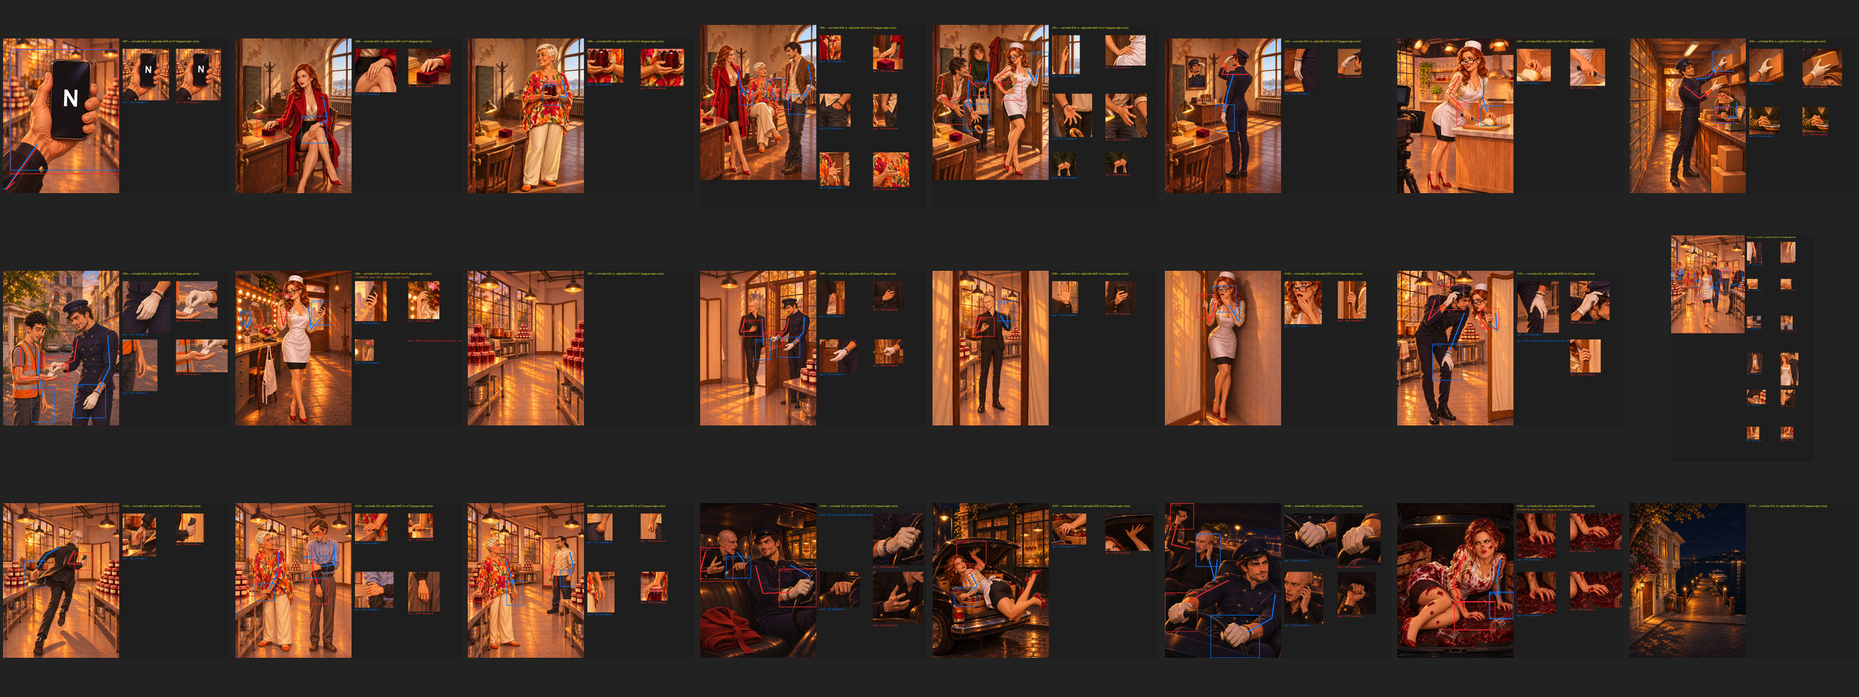
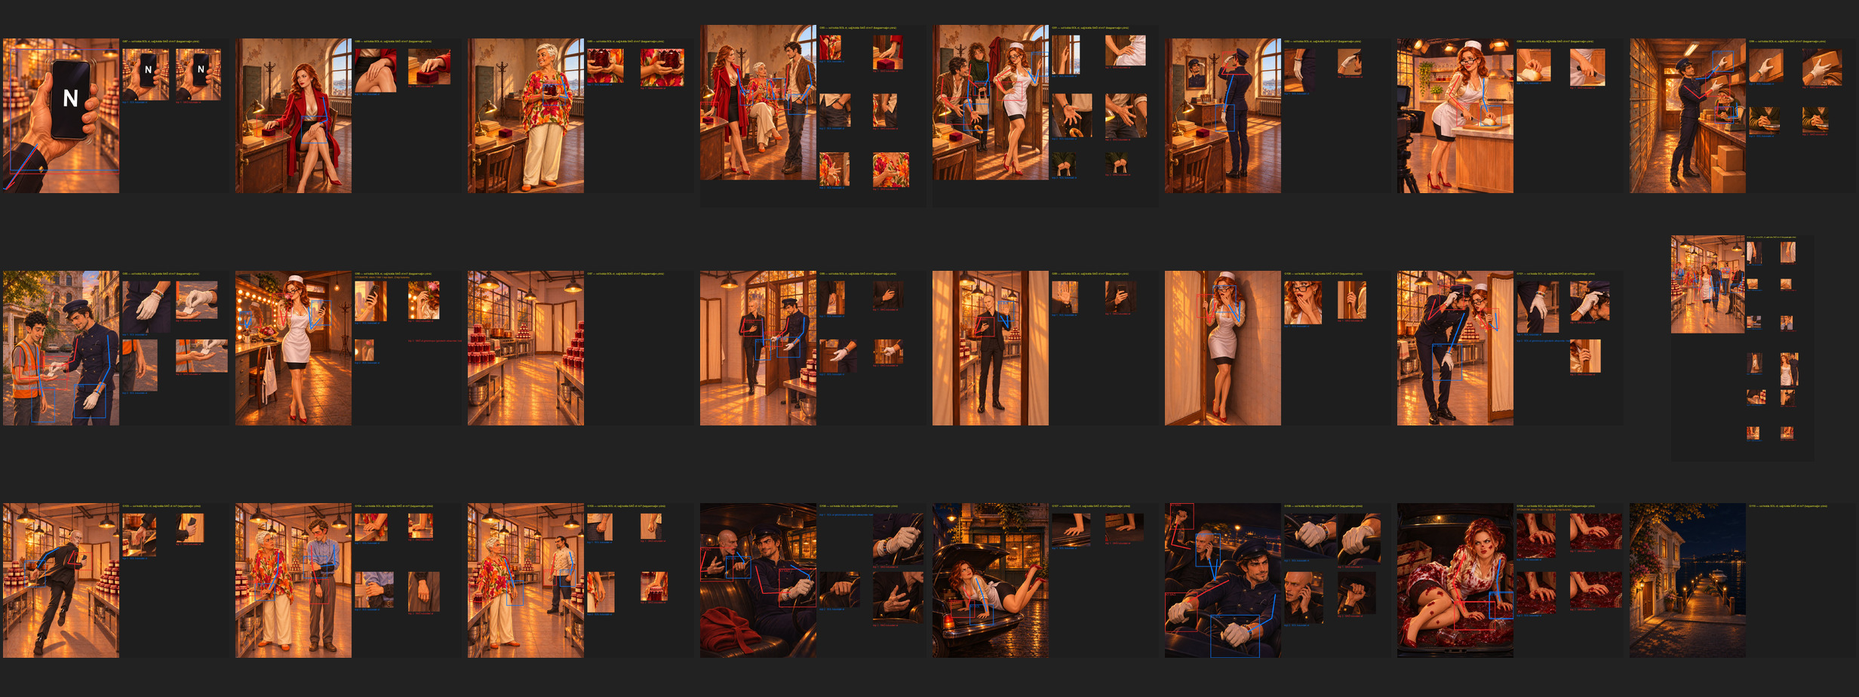
Vaka 8: G107 (bagaj boş, kasa az) ve G125 (polis aracı orta planda, amblemsiz) yeniden — Oğuz Bey; G115 istem kodlaması düzeldi

Changed region(s): [[0.5, 0.697, 0.625, 0.9697]]

diff --git a/uretim/v8/kayit/kol2.md b/uretim/v8/kayit/kol2.md
@@ -122,3 +122,4 @@
 | G128 | image_gen.imagegen / bildirilmedi | Üstlerindeki reçel lekeleri açıkça REÇEL: birkaç küçük, parlak, kiraz kırmızısı TOPAK ve bütün VİŞNE TANESİ; akan, damlayan, sıçramış koyu kırmızı YOK; YÜZLERDE ve KAFALARDA hiç reçel YOK (kan ya da yara izlenimi olmasın).<br><br>Yarı gerçekçi dijital illüstrasyon, boyalı görsel roman karakter çizimi. Gerçek insan oranları, ama fotoğraf değil: belirgin, temiz kontur çizgileri, yumuşak boyalı gölgeler, sıcak ve canlı renkler. Animasyon filmi afişi ile modern çizgi roman arası bir tarz. Anime değil, çocuk çizgi filmi değil, fotoğraf değil.<br><br>Kart referansları YALNIZ kıyafetin kesimi, boyu ve rengi içindir; kartların çizim tarzını, ışığını, yüzünü ve pozunu ALMA. Bütün kişiler sıcak ışıklı, boyalı, ince konturlu aynı illüstrasyon tarzında.<br><br>Sahne: birinci referanstaki yalının önü ve iskele, gece; yalının yanından yukarı çıkan dar, taş bir yokuş. Kadrajda TAM 2 kişi: Tarkan ve Nihat. SONUÇ anı.<br><br>İkinci referans bir şerittir (soldan Nihat, Tarkan). Tarkan (ince, KEL ve parlak kafalı, dar uzun solgun yüzlü, SARI kaşlı, kaşında ince iz olan genç adam; siyah takım, siyah gömlek, altın kol düğmeleri; reçel lekeli): yokuşa doğru koşuyor, uzaklaşıyor, sırtı bize dönük ama başı hafif yana, yüzü üç çeyrek görünüyor. Nihat (ince, uzun boylu, DÜZ GERİYE yatırılmış GÜMÜŞ saçlı, bronz tenli, kemerli burunlu, ellilerinde adam; beyaz keten takım, açık yakalı beyaz gömlek, güneş gözlüğü saçının üstünde): iskelede, ağın içinde tek başına oturuyor, Tarkan'ın arkasından öfkeyle bakıyor.<br><br>Işık: GERÇEKTEN gece; sahnenin çoğu karanlıkta, ışık yalnız lambalardan ve fenerlerden gelir; gündüz gibi aydınlık DEĞİL.<br><br>Yüzler üç çeyrek, gözler görünüyor; kimse kameraya bakmıyor. Her kişinin İKİ kolu, İKİ eli var.<br><br>Sahnede yalnız yazılan nesneler var; başka eşya eklenmiyor.<br><br>Çıplaklık yok.<br><br>Görselde hiçbir yazı, harf, rakam, logo ya da etiket olmasın.<br><br>Görselin oranı TAM 3:4, dikey (1086×1448).<br><br>Nihat ağa yaslanmış ama serbestti; o hâlâ YAKALANMIŞ: büyük balıkçı AĞININ İÇİNDE oturuyor, ağ başının ve omuzlarının üstüne kapanmış, ağın gözleri yüzünün önünde; öfkeyle Tarkan'ın arkasından bakıyor. Tarkan'ın yokuşa koşuşu, iskele ve gece aynı kalsın. | 1. onayli/G25.png<br>2. referanslar/serit_nihat_tarkan.jpg | 1086×1450 çıktı / kalite bildirilmedi | Evet | üretildi |
 | G131 | image_gen.imagegen / bildirilmedi | Yarı gerçekçi dijital illüstrasyon, boyalı görsel roman karakter çizimi. Gerçek insan oranları, ama fotoğraf değil: belirgin, temiz kontur çizgileri, yumuşak boyalı gölgeler, sıcak ve canlı renkler. Animasyon filmi afişi ile modern çizgi roman arası bir tarz. Anime değil, çocuk çizgi filmi değil, fotoğraf değil.<br><br>Sahne: birinci referanstaki büro, gece; ayaklı askılıkta lacivert, siperli bir şoför kasketi asılı. Kadrajda TAM 1 kişi: Cengo.<br><br>Cengo (ikinci referansın yüzü ve kıyafeti: eskimiş kahve süet ceket, kolları dirseğe kıvrık, yakası açık krem gömlek, koyu kot; göğüs cebinden ince bir telin ucu; sol bileğinde renkli boncuklu bileklik; koyu, dağınık saç, kısa sakal): askılığın yanında, kendi süet ceketini yeni giymiş, yakasını düzeltiyor; askıdaki kaskete göz ucuyla bakıp gülümsüyor.<br><br>Işık: GERÇEKTEN gece; sahnenin çoğu karanlıkta, ışık yalnız lambalardan ve fenerlerden gelir; gündüz gibi aydınlık DEĞİL.<br><br>Yüzler üç çeyrek, gözler görünüyor; kimse kameraya bakmıyor. Her kişinin İKİ kolu, İKİ eli var.<br><br>Sahnede yalnız yazılan nesneler var; başka eşya eklenmiyor.<br><br>Çıplaklık yok.<br><br>Görselde hiçbir yazı, harf, rakam, logo ya da etiket olmasın.<br><br>Görselin oranı TAM 3:4, dikey (1086×1448). | 1. onayli/G15.png; 2. onayli/G29.png | bildirilmedi / bildirilmedi | Evet | üretildi |
 | G133 | image_gen / bildirilmedi | Yarı gerçekçi dijital illüstrasyon, boyalı görsel roman karakter çizimi. Gerçek insan oranları, ama fotoğraf değil: belirgin, temiz kontur çizgileri, yumuşak boyalı gölgeler, sıcak ve canlı renkler. Animasyon filmi afişi ile modern çizgi roman arası bir tarz. Anime değil, çocuk çizgi filmi değil, fotoğraf değil.<br><br>Kart referansları YALNIZ kıyafetin kesimi, boyu ve rengi içindir; kartların çizim tarzını, ışığını, yüzünü ve pozunu ALMA. Bütün kişiler sıcak ışıklı, boyalı, ince konturlu aynı illüstrasyon tarzında.<br><br>Sahne: birinci referanstaki atölye, akşam; köşedeki paravanın önü. Kadrajda TAM 6 kişi. Kişiler daha küçük ve kadrajda daha yukarıda; en öndekinin ayakkabısı dahil herkesin ayakları kadrajın üst %80'inin içinde.<br><br>Peri (ikinci referansın yüzü; kıyafet kartın önlüklü hâli: krem saten bluz (derin V yaka, dekoltesi belirgin), beline sıkıca bağlı BEYAZ şef önlüğü, dar siyah kalem etek; KEP YOK, GÖZLÜK YOK; açık, dalgalı kızıl-kahve saç; kırmızı stiletto, çorap yok): paravanın arkasından az önce çıkmış, önünde dimdik, bir eli belinde, başı yukarıda; kraliçe gibi kendinden emin.<br><br>Beşinci referans bir şerittir (soldan Bahar, Nevzat, Fikret, Tarkan). Bahar (kısa PLATİN pixie saçlı, esmer, kare çeneli, kalın koyu kaşlı, iri yapılı, elli yaşlarında kadın; renkli iri çiçekli kaftan bluz, krem keten pantolon, kocaman gümüş halka küpeler), Nevzat (zayıf, kemikli yüzlü, gür KABARIK KUMRAL saçlı, bıyıksız adam; açık mavi gömlek, iki ön kolunda siyah kolluk, boynunda zincirli gözlük, kulağında kalem; gri pantolon), Fikret (iri, geniş omuzlu, SİYAH at kuyruklu, KEÇİ SAKALLI, altmışlarında aşçı; lekeli beyaz aşçı ceketi, kolları sıvalı, ön kolunda soluk çapa dövmesi; kareli pantolon) ve Tarkan (ince, KEL ve parlak kafalı, dar uzun solgun yüzlü, SARI kaşlı, kaşında ince iz olan genç adam; siyah takım, siyah gömlek, altın kol düğmeleri): odanın öbür tarafında, hepsi Peri'ye dönmüş, şaşkın; Tarkan'ın gülümsemesi donmuş.<br><br>Cengo (dördüncü referans: koyu lacivert, iki sıra düğmeli, dik yakalı şoför ceketi (bir beden dar), lacivert pantolon, siyah siperli lacivert KASKET, BEYAZ eldivenler; göğüs cebinden ince bir telin ucu; sol bileğinde (eldivenin üstünde) renkli boncuklu bileklik; kasketin altından koyu, dağınık saç): kapının yanında, kasketini hafifçe kaldırmış, Peri'ye gururla bakıyor.<br><br>Çekicilik: en üst seviyede zarif ve seksi; dekolte, belin inceliği, kalçanın ve bacağın hattı korunur. Çıplaklık yok.<br><br>Kadrajdaki en gösterişli, en çekici kadın Peri'dir: ışık en çok onun üstünde; öbür kadın(lar) Peri'yi gölgede bırakmıyor.<br><br>Yüzler üç çeyrek, gözler görünüyor; kimse kameraya bakmıyor. Her kişinin İKİ kolu, İKİ eli var.<br><br>Sahnede yalnız yazılan nesneler var; başka eşya eklenmiyor.<br><br>Çıplaklık yok.<br><br>Görselde hiçbir yazı, harf, rakam, logo ya da etiket olmasın.<br><br>Görselin oranı TAM 3:4, dikey (1086×1448). | 1. onayli/G22.png, 2. ../referanslar/peri_bas.jpg, 3. onayli/G2.png, 4. onayli/G28.png, 5. referanslar/serit_bahar_nevzat_fikret_tarkan.jpg | 1086×1448 / kalite bildirilmedi | Evet | Üretildi |
+| G125 | image_gen.imagegen / bildirilmedi | Yarı gerçekçi dijital illüstrasyon, boyalı görsel roman karakter çizimi. Gerçek insan oranları, ama fotoğraf değil: belirgin, temiz kontur çizgileri, yumuşak boyalı gölgeler, sıcak ve canlı renkler. Animasyon filmi afişi ile modern çizgi roman arası bir tarz. Anime değil, çocuk çizgi filmi değil, fotoğraf değil.<br><br>Kart referansları YALNIZ kıyafetin kesimi, boyu ve rengi içindir; kartların çizim tarzını, ışığını, yüzünü ve pozunu ALMA. Bütün kişiler sıcak ışıklı, boyalı, ince konturlu aynı illüstrasyon tarzında.<br><br>Sahne: birinci referanstaki iskele, gece; uzaktan bir polis arabasının mavi-kırmızı ışıkları suya ve yalının duvarına yansıyor. Kadrajda TAM 4 kişi: iki polis memuru, Nihat, Tarkan. SONUÇ anı: polis gelmiş.<br><br>İki polis memuru (koyu lacivert üniforma, şapka; üniformada yazı, rozet harfi, numara YOK; yüzleri gölgede, ikinci plan): biri makasla ağı kesiyor, öbürü Nihat'ı kolundan tutup kaldırıyor.<br><br>İkinci referans bir şerittir (soldan Nihat, Tarkan). Nihat (ince, uzun boylu, DÜZ GERİYE yatırılmış GÜMÜŞ saçlı, bronz tenli, kemerli burunlu, ellilerinde adam; beyaz keten takım, açık yakalı beyaz gömlek, güneş gözlüğü saçının üstünde) ve Tarkan (ince, KEL ve parlak kafalı, dar uzun solgun yüzlü, SARI kaşlı, kaşında ince iz olan genç adam; siyah takım, siyah gömlek, altın kol düğmeleri): reçel lekeli, başları önde, götürülüyorlar.<br><br>Ön planda iskelenin tahtalarında, kırmızı-beyaz çizgili bantla çapraz MÜHÜRLENMİŞ kahverengi deri valiz (bantta yazı YOK).<br><br>Işık: GERÇEKTEN gece; sahnenin çoğu karanlıkta, ışık yalnız lambalardan ve fenerlerden gelir; gündüz gibi aydınlık DEĞİL.<br><br>Yüzler üç çeyrek, gözler görünüyor; kimse kameraya bakmıyor. Her kişinin İKİ kolu, İKİ eli var.<br><br>Sahnede yalnız yazılan nesneler var; başka eşya eklenmiyor.<br><br>Çıplaklık yok.<br><br>Görselde hiçbir yazı, harf, rakam, logo ya da etiket olmasın.<br><br>Görselin oranı TAM 3:4, dikey (1086×1448).<br><br>(Üretimden önce eklendi, 26 Kasım 2026.) Üstlerindeki reçel lekeleri açıkça REÇEL: birkaç küçük, parlak, kiraz kırmızısı TOPAK ve bütün VİŞNE TANESİ; akan, damlayan, sıçramış koyu kırmızı YOK; YÜZLERDE ve KAFALARDA hiç reçel YOK (kan ya da yara izlenimi olmasın).<br><br>Oğuz Bey (26 Kasım 2026): polis aracı beğenilmedi. Polis aracı ARKA PLANDA değil, ORTA PLANDA, iskelenin başında, yalının yanındaki yolda, açıkça görünüyor: koyu lacivert-beyaz, düzgün çizilmiş, gerçekçi oranlı, modern bir binek polis arabası; tavanında mavi-kırmızı tepe lambası yanıyor, ışığı yalıya ve iskeleye vuruyor. Arabanın üstünde HİÇBİR yazı, harf, rakam, şerit yazısı, arma, plaka YOK (düz renk alanlar). Tek araç; başka polis arabası yok. Sahnenin geri kalanı (iki polis, kelepçeli Nihat ve Tarkan, kesilen ağ, kırmızı-beyaz bantla mühürlü valiz) aynı kalsın. | 1. onayli/G25.png<br>2. referanslar/serit_nihat_tarkan.jpg | 1086×1448 çıktı / kalite bildirilmedi | Evet | üretildi |

diff --git a/uretim/v8/kayit/kol1.md b/uretim/v8/kayit/kol1.md
@@ -115,3 +115,4 @@
 | G132 | image_gen.imagegen / bildirilmedi | Yarı gerçekçi dijital illüstrasyon, boyalı görsel roman karakter çizimi. Gerçek insan oranları, ama fotoğraf değil: belirgin, temiz kontur çizgileri, yumuşak boyalı gölgeler, sıcak ve canlı renkler. Animasyon filmi afişi ile modern çizgi roman arası bir tarz. Anime değil, çocuk çizgi filmi değil, fotoğraf değil.<br><br>Kart referansları YALNIZ kıyafetin kesimi, boyu ve rengi içindir; kartların çizim tarzını, ışığını, yüzünü ve pozunu ALMA. Bütün kişiler sıcak ışıklı, boyalı, ince konturlu aynı illüstrasyon tarzında.<br><br>Sahne: birinci referanstaki stüdyo kulisi; ampullü ayna. Kadrajda TAM 1 kişi: Peri (ve aynadaki yansıması).<br><br>Peri (ikinci referansın yüzü; kıyafeti üçüncü referanstaki kart gibi: krem saten bluz (derin V yaka önlüğün üstünden görünüyor, dekoltesi belirgin), beline sıkıca bağlı BEYAZ şef önlüğü, dar siyah kalem etek; başında küçük beyaz aşçı KEPİ; iri siyah gözlük burnunun en ucunda, gözler gözlüğün üstünden görünüyor; açık dalgalı saç; kırmızı stiletto, çorap yok): makyaj masasına kalçasını dayamış, telefonu kulağına tutmuş, dinliyor; kaşları meraklı, dudaklarında küçük bir gülümseme. Aynada onun yansıması.<br><br>Çekicilik: en üst seviyede zarif ve seksi; dekolte, belin inceliği, kalçanın ve bacağın hattı korunur. Çıplaklık yok.<br><br>Yüzler üç çeyrek, gözler görünüyor; kimse kameraya bakmıyor. Her kişinin İKİ kolu, İKİ eli var.<br><br>Sahnede yalnız yazılan nesneler var; başka eşya eklenmiyor.<br><br>Çıplaklık yok.<br><br>Görselde hiçbir yazı, harf, rakam, logo ya da etiket olmasın.<br><br>Görselin oranı TAM 3:4, dikey (1086×1448). | 1. onayli/G21.png → 2. referanslar/peri_kilik_bas.png → 3. onayli/G2.png | 1086×1448 / bildirilmedi | Evet | üretildi |
 | G134 | image_gen.imagegen / bildirilmedi | Yarı gerçekçi dijital illüstrasyon, boyalı görsel roman karakter çizimi. Gerçek insan oranları, ama fotoğraf değil: belirgin, temiz kontur çizgileri, yumuşak boyalı gölgeler, sıcak ve canlı renkler. Animasyon filmi afişi ile modern çizgi roman arası bir tarz. Anime değil, çocuk çizgi filmi değil, fotoğraf değil.<br><br>Kart referansları YALNIZ kıyafetin kesimi, boyu ve rengi içindir; kartların çizim tarzını, ışığını, yüzünü ve pozunu ALMA. Bütün kişiler sıcak ışıklı, boyalı, ince konturlu aynı illüstrasyon tarzında.<br><br>Sahne: birinci referanstaki büro, sabah; köşede katlanır soyunma paravanı, üstüne kırmızı bir manto asılı. Kadrajda TAM 3 kişi: Cengo, Peri, Gizem.<br><br>Cengo (dördüncü referans: eskimiş kahve süet ceket, kolları dirseğe kıvrık, yakası açık krem gömlek, koyu kot; göğüs cebinden ince bir telin ucu; sol bileğinde renkli boncuklu bileklik; koyu, dağınık saç, kısa sakal): ön planda, paravanın yanından geçerken üstündeki kırmızı yün mantoyu sessizce koluna almış, kapıya doğru yürüyor; omzunun üstünden geriye, sırrını saklayan bir gülümsemeyle bakıyor.<br><br>Peri (ikinci referansın yüzü; kıyafeti üçüncü referanstaki kart gibi: krem saten bluz (derin V yaka önlüğün üstünden görünüyor, dekoltesi belirgin), beline sıkıca bağlı BEYAZ şef önlüğü, dar siyah kalem etek; başında küçük beyaz aşçı KEPİ; iri siyah gözlük burnunun en ucunda, gözler gözlüğün üstünden görünüyor; açık dalgalı saç; kırmızı stiletto, çorap yok) ve Gizem (beşinci referans: koyu yeşil, kalın örgü balıkçı yaka kazak, siyah pantolon; bal rengi kâküllü kıvırcık saç, çiller, küçük altın halka küpeler): arkada, masanın başında, açık tanıtım çantasının içine eğilmiş, bir şey arıyorlar; Cengo'yu görmüyorlar.<br><br>Çekicilik: en üst seviyede zarif ve seksi; dekolte, belin inceliği, kalçanın ve bacağın hattı korunur. Çıplaklık yok.<br><br>Yüzler üç çeyrek, gözler görünüyor; kimse kameraya bakmıyor. Her kişinin İKİ kolu, İKİ eli var.<br><br>Sahnede yalnız yazılan nesneler var; başka eşya eklenmiyor.<br><br>Çıplaklık yok.<br><br>Görselde hiçbir yazı, harf, rakam, logo ya da etiket olmasın.<br><br>Görselin oranı TAM 3:4, dikey (1086×1448). | 1. onayli/G14.png → 2. referanslar/peri_kilik_bas.png → 3. onayli/G2.png → 4. onayli/G29.png → 5. onayli/G30.png | 1086×1448 / bildirilmedi | Evet | üretildi |
 | G134 | image_gen.imagegen / bildirilmedi | Yarı gerçekçi dijital illüstrasyon, boyalı görsel roman karakter çizimi. Gerçek insan oranları, ama fotoğraf değil: belirgin, temiz kontur çizgileri, yumuşak boyalı gölgeler, sıcak ve canlı renkler. Animasyon filmi afişi ile modern çizgi roman arası bir tarz. Anime değil, çocuk çizgi filmi değil, fotoğraf değil.<br><br>Kart referansları YALNIZ kıyafetin kesimi, boyu ve rengi içindir; kartların çizim tarzını, ışığını, yüzünü ve pozunu ALMA. Bütün kişiler sıcak ışıklı, boyalı, ince konturlu aynı illüstrasyon tarzında.<br><br>Sahne: birinci referanstaki büro, sabah; köşede katlanır soyunma paravanı, üstüne kırmızı bir manto asılı. Kadrajda TAM 3 kişi: Cengo, Peri, Gizem.<br><br>Cengo (dördüncü referans: eskimiş kahve süet ceket, kolları dirseğe kıvrık, yakası açık krem gömlek, koyu kot; göğüs cebinden ince bir telin ucu; sol bileğinde renkli boncuklu bileklik; koyu, dağınık saç, kısa sakal): ön planda, paravanın yanından geçerken üstündeki kırmızı yün mantoyu sessizce koluna almış, kapıya doğru yürüyor; omzunun üstünden geriye, sırrını saklayan bir gülümsemeyle bakıyor.<br><br>Peri (ikinci referansın yüzü; kıyafeti üçüncü referanstaki kart gibi: krem saten bluz (derin V yaka önlüğün üstünden görünüyor, dekoltesi belirgin), beline sıkıca bağlı BEYAZ şef önlüğü, dar siyah kalem etek; başında küçük beyaz aşçı KEPİ; iri siyah gözlük burnunun en ucunda, gözler gözlüğün üstünden görünüyor; açık dalgalı saç; kırmızı stiletto, çorap yok) ve Gizem (beşinci referans: koyu yeşil, kalın örgü balıkçı yaka kazak, siyah pantolon; bal rengi kâküllü kıvırcık saç, çiller, küçük altın halka küpeler): arkada, masanın başında, açık tanıtım çantasının içine eğilmiş, bir şey arıyorlar; Cengo'yu görmüyorlar.<br><br>Çekicilik: en üst seviyede zarif ve seksi; dekolte, belin inceliği, kalçanın ve bacağın hattı korunur. Çıplaklık yok.<br><br>Yüzler üç çeyrek, gözler görünüyor; kimse kameraya bakmıyor. Her kişinin İKİ kolu, İKİ eli var.<br><br>Sahnede yalnız yazılan nesneler var; başka eşya eklenmiyor.<br><br>Çıplaklık yok.<br><br>Görselde hiçbir yazı, harf, rakam, logo ya da etiket olmasın.<br><br>Görselin oranı TAM 3:4, dikey (1086×1448).<br><br>Cengo'nun kolundaki kırmızı mantoda bir DÜĞME çizilmişti: manto DÜĞMESİZ (yalnız kuşakla bağlanır). Kolundaki mantoda düğme YOK; kuşağın ucu sarkıyor. Gerisi (Cengo kapıya yürüyor, gülümsüyor; arkada kılıktaki Peri ve Gizem masada çantaya eğilmiş; paravan) aynı kalsın. | 1. onayli/G14.png → 2. referanslar/peri_kilik_bas.png → 3. onayli/G2.png → 4. onayli/G29.png → 5. onayli/G30.png | 1086×1448 / bildirilmedi | Evet | Üretildi · uretilen/G134.png |
+| G107 | image_gen / bildirilmedi | Yarı gerçekçi dijital illüstrasyon, boyalı görsel roman karakter çizimi. Gerçek insan oranları, ama fotoğraf değil: belirgin, temiz kontur çizgileri, yumuşak boyalı gölgeler, sıcak ve canlı renkler. Animasyon filmi afişi ile modern çizgi roman arası bir tarz. Anime değil, çocuk çizgi filmi değil, fotoğraf değil.<br><br>Kart referansları YALNIZ kıyafetin kesimi, boyu ve rengi içindir; kartların çizim tarzını, ışığını, yüzünü ve pozunu ALMA. Bütün kişiler sıcak ışıklı, boyalı, ince konturlu aynı illüstrasyon tarzında.<br><br>Sahne: birinci referanstaki atölyenin önü, gece; siyah arabanın arka tarafı yakından, bagaj kapağı açık ve inmeye başlamış. Bagajın içinde üst üste ahşap kasalar, içlerinde etiketsiz reçel kavanozları. Kadrajda TAM 1 kişi: Peri.<br><br>Peri (ikinci referansın yüzü; kıyafeti üçüncü referanstaki kartın önlüklü hâli: krem saten bluz (derin V yaka, dekoltesi belirgin), beline sıkıca bağlı BEYAZ şef önlüğü, dar siyah kalem etek; KEP YOK, GÖZLÜK YOK; açık, dalgalı kızıl-kahve saç; kırmızı stiletto, çorap yok): bagaja, kasaların arasına balıklama atlamış; gövdesi bagajın içinde, kasaların arasında; iki bacağı ve kırmızı stilettoları bagajın dışında, havada çapraz; kalem etek dizlerinin üstünde gergin. Yüzü üç çeyrek, bagajın içinden omzunun üstünden kameraya değil, yukarıdaki kapağa bakıyor, kararlı ve komik.<br><br>Işık: GERÇEKTEN gece; sahnenin çoğu karanlıkta, ışık yalnız lambalardan ve fenerlerden gelir; gündüz gibi aydınlık DEĞİL.<br><br>Çekicilik: en üst seviyede seksi ve komik, ikisi aynı anda. Acı ya da aşağılanma yok. Çıplaklık yok.<br><br>Sahne aile dostu bir fiziksel komedi anıdır; kamera göz hizasında, alttan açı yok; müstehcen değil.<br><br>Yüzler üç çeyrek, gözler görünüyor; kimse kameraya bakmıyor. Her kişinin İKİ kolu, İKİ eli var.<br><br>Sahnede yalnız yazılan nesneler var; başka eşya eklenmiyor.<br><br>Çıplaklık yok.<br><br>Görselde hiçbir yazı, harf, rakam, logo ya da etiket olmasın.<br><br>Görselin oranı TAM 3:4, dikey (1086×1448).<br><br>Oğuz Bey (26 Kasım 2026): bagaj tıka basa reçel doluydu, Peri'nin sığacağı yer yoktu. Bagajın İÇİ büyük ölçüde BOŞ: yalnız arka tarafta, bir köşede iki-üç alçak ahşap kasa, içlerinde birkaç kapalı kavanoz; bagajın ortası ve önü boş, Peri'nin gövdesi oraya rahatça giriyor. Kasalar üst üste yığılı değil, bagajı doldurmuyor; ortalıkta dökülmüş reçel YOK (kavanozlar henüz kırılmadı). Küpeleri küçük ALTIN HALKA (inci DEĞİL). Peri'nin pozu (balıklama atlamış, bacakları ve kırmızı stilettoları dışarıda havada), ifadesi, kıyafeti, gece ve atölyenin önü aynı kalsın. | 1. onayli/G23.png; 2. ../referanslar/peri_bas.jpg; 3. onayli/G2.png | boyut: 1086×1448, kalite: bildirilmedi | evet | üretildi |

diff --git a/uretim/v8/prompts/G125.md b/uretim/v8/prompts/G125.md
@@ -52,3 +52,7 @@ Görselin oranı TAM 3:4, dikey (1086×1448).
 ## Düzeltme 0
 
 (Üretimden önce eklendi, 26 Kasım 2026.) Üstlerindeki reçel lekeleri açıkça REÇEL: birkaç küçük, parlak, kiraz kırmızısı TOPAK ve bütün VİŞNE TANESİ; akan, damlayan, sıçramış koyu kırmızı YOK; YÜZLERDE ve KAFALARDA hiç reçel YOK (kan ya da yara izlenimi olmasın).
+
+## Düzeltme 1
+
+Oğuz Bey (26 Kasım 2026): polis aracı beğenilmedi. Polis aracı ARKA PLANDA değil, ORTA PLANDA, iskelenin başında, yalının yanındaki yolda, açıkça görünüyor: koyu lacivert-beyaz, düzgün çizilmiş, gerçekçi oranlı, modern bir binek polis arabası; tavanında mavi-kırmızı tepe lambası yanıyor, ışığı yalıya ve iskeleye vuruyor. Arabanın üstünde HİÇBİR yazı, harf, rakam, şerit yazısı, arma, plaka YOK (düz renk alanlar). Tek araç; başka polis arabası yok. Sahnenin geri kalanı (iki polis, kelepçeli Nihat ve Tarkan, kesilen ağ, kırmızı-beyaz bantla mühürlü valiz) aynı kalsın.

diff --git a/uretim/v8/prompts/G107.md b/uretim/v8/prompts/G107.md
@@ -47,3 +47,7 @@ Görselde hiçbir yazı, harf, rakam, logo ya da etiket olmasın.
 
 Görselin oranı TAM 3:4, dikey (1086×1448).
 ```
+
+## Düzeltme 1
+
+Oğuz Bey (26 Kasım 2026): bagaj tıka basa reçel doluydu, Peri'nin sığacağı yer yoktu. Bagajın İÇİ büyük ölçüde BOŞ: yalnız arka tarafta, bir köşede iki-üç alçak ahşap kasa, içlerinde birkaç kapalı kavanoz; bagajın ortası ve önü boş, Peri'nin gövdesi oraya rahatça giriyor. Kasalar üst üste yığılı değil, bagajı doldurmuyor; ortalıkta dökülmüş reçel YOK (kavanozlar henüz kırılmadı). Küpeleri küçük ALTIN HALKA (inci DEĞİL). Peri'nin pozu (balıklama atlamış, bacakları ve kırmızı stilettoları dışarıda havada), ifadesi, kıyafeti, gece ve atölyenin önü aynı kalsın.
